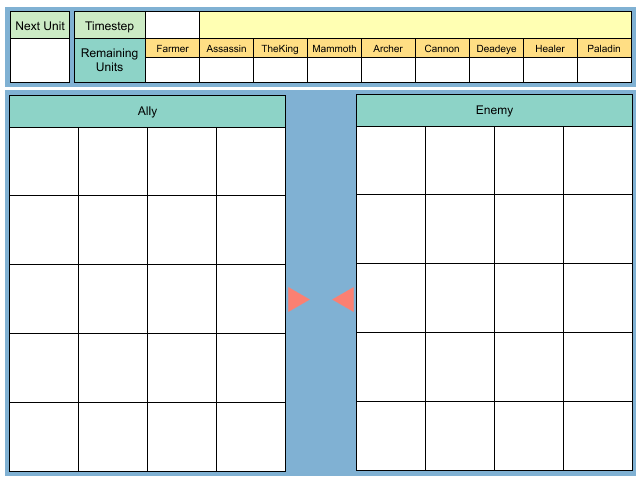
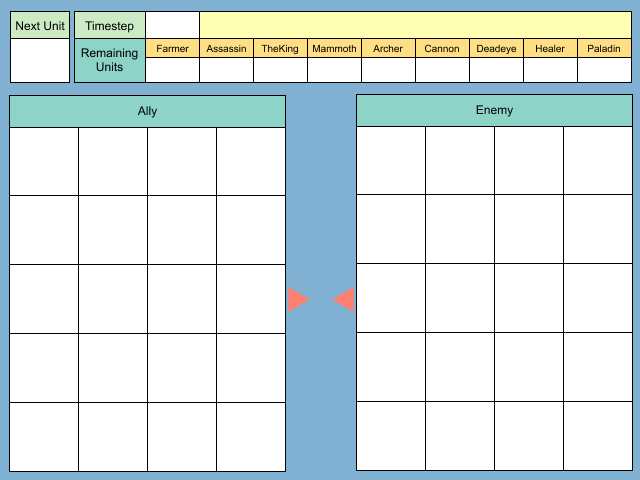
add: vis: info purchasable units

Changed region(s): [[0.0, 0.0, 1.0, 1.0]]

diff --git a/src/tabs/visualize/rendering.py b/src/tabs/visualize/rendering.py
@@ -104,7 +104,14 @@ def draw_comb_unit_list(
 
 
 def draw_catalog(
-    canvas: pygame.Surface, all_spec: List, width: int, height: int, x: int, y: int, size: int = 20
+    canvas: pygame.Surface,
+    all_spec: List,
+    purchasable: List,
+    width: int,
+    height: int,
+    x: int,
+    y: int,
+    size: int = 20,
 ):
     _canvas = pygame.Surface((width, height), pygame.SRCALPHA)
 
@@ -125,7 +132,7 @@ def draw_catalog(
 
     _w_pad, _h_pad = 3, 4
     _width, _height = 117, 152  # unit spec canvas size
-    _x_portrait, _y_portrait = 33, 6  # (x, y) in unit spec canvas window
+    _x_portrait, _y_portrait = 37, 6  # (x, y) in unit spec canvas window
     _stats_font_size = 8
     for idx in range(n_units):
         _unit = pygame.Surface((_width, _height), pygame.SRCALPHA)
@@ -156,9 +163,16 @@ def draw_catalog(
             _unit.blit(_text, (94 - text_width // 2, _y))
 
         # Draw unit spec
-        _x = _width * (idx % 3) + _w_pad * (idx % 3 + 1)
+        _x = _width * (idx % 3) + _w_pad * (idx % 3 + 1) - 3
         _y = _height * (idx // 3) + _h_pad * (idx // 3) - 1
         _canvas.blit(_unit, (_x, _y))
+
+        # Info purchasable
+        if not purchasable[idx]:
+            _blind = pygame.Surface((_width, _height), pygame.SRCALPHA)
+            _blind.fill(BLACK)
+            _blind.set_alpha(ALPHA[0])
+            _canvas.blit(_blind, (_x, _y))
 
     canvas.blit(_canvas, (x, y))
 
@@ -518,7 +532,15 @@ def get_comb_render(scenario_name: str, state: CombState):
         canvas, unit_list=enemy_unit_list, price=prices, width=256, height=184, x=377, y=287
     )
     # Draw all unit specification
-    draw_catalog(canvas, all_spec=all_spec, width=357, height=463, x=8, y=8)
+    draw_catalog(
+        canvas,
+        all_spec=all_spec,
+        purchasable=np.logical_not(np.array(state.unavail_action)),
+        width=357,
+        height=463,
+        x=8,
+        y=8,
+    )
 
     array = np.transpose(np.array(pygame.surfarray.pixels3d(canvas)), axes=(1, 0, 2))  # Rotate
     array = np.flip(array, axis=0)  # Flip because of matplotlib axis

diff --git a/src/tabs/visualize/vis_example.py b/src/tabs/visualize/vis_example.py
@@ -30,9 +30,8 @@ if __name__ == "__main__":
 
         return (next_state, rng), next_state
 
-    carry, stacked = jax.lax.scan(rollout_body, (env_state, rng), None, bs_num_steps)
-
-    state_seq = [jax.tree.map(lambda x: x[i], stacked) for i in range(bs_num_steps)]
+    carry, stacked = jax.lax.scan(rollout_body, (env_state, rng), None, num_steps)
+    state_seq = [jax.tree.map(lambda x: x[i], stacked) for i in range(num_steps)]
 
     visualizer = UnitCombVisualizer(env, tabs_conf.scenario_name, state_seq)
     visualizer.animate(save_fname="tabsunitcomb.gif", view=False)
@@ -54,9 +53,8 @@ if __name__ == "__main__":
 
         return (next_state, rng), next_state
 
-    carry, stacked = jax.lax.scan(rollout_body, (env_state, rng), None, bs_num_steps)
-
-    state_seq = [jax.tree.map(lambda x: x[i], stacked) for i in range(bs_num_steps)]
+    carry, stacked = jax.lax.scan(rollout_body, (env_state, rng), None, num_steps)
+    state_seq = [jax.tree.map(lambda x: x[i], stacked) for i in range(num_steps)]
 
     visualizer = UnitDeployVisualizer(env, tabs_conf.scenario_name, state_seq)
     visualizer.animate(save_fname="tabsunitdeploy.gif", view=False)
@@ -83,7 +81,6 @@ if __name__ == "__main__":
         return (next_state, rng), next_state
 
     carry, stacked = jax.lax.scan(rollout_body, (env_state, rng), None, bs_num_steps)
-
     state_seq = [jax.tree.map(lambda x: x[i], stacked) for i in range(bs_num_steps)]
 
     visualizer = BattleSimulatorVisualizer(env, tabs_conf.scenario_name, state_seq)

diff --git a/src/tabs/visualize/__init__.py b/src/tabs/visualize/__init__.py
@@ -1,1 +1,5 @@
-from src.tabs.visualize.visualizer import UnitCombVisualizer, UnitDeployVisualizer
+from src.tabs.visualize.visualizer import (
+    UnitCombVisualizer,
+    UnitDeployVisualizer,
+    BattleSimulatorVisualizer,
+)